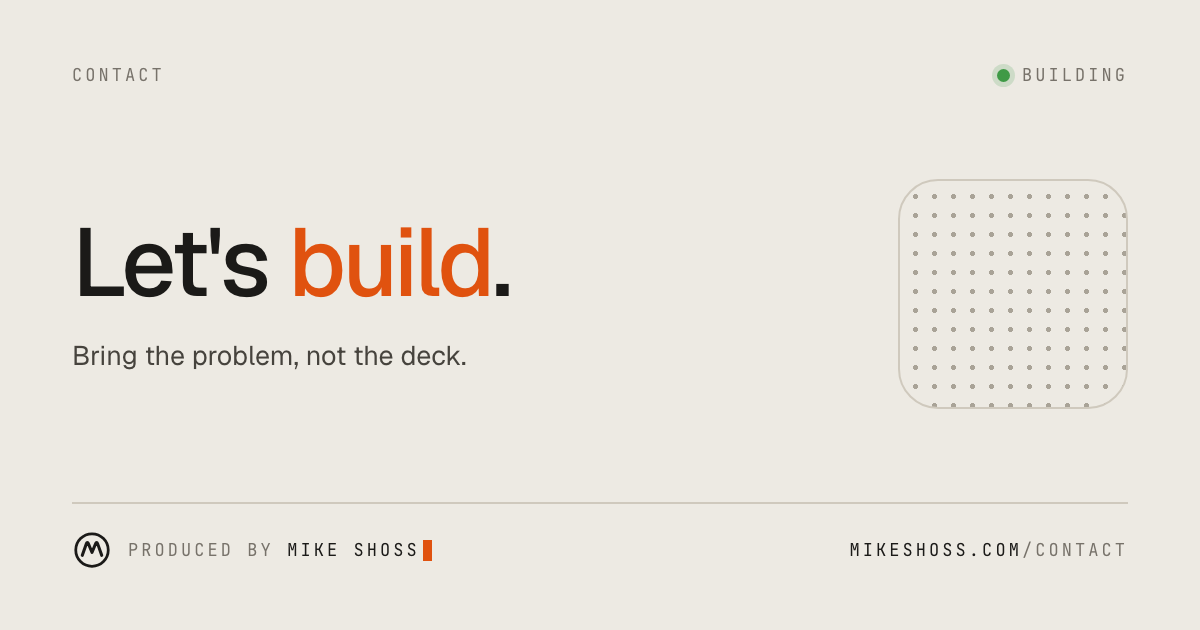
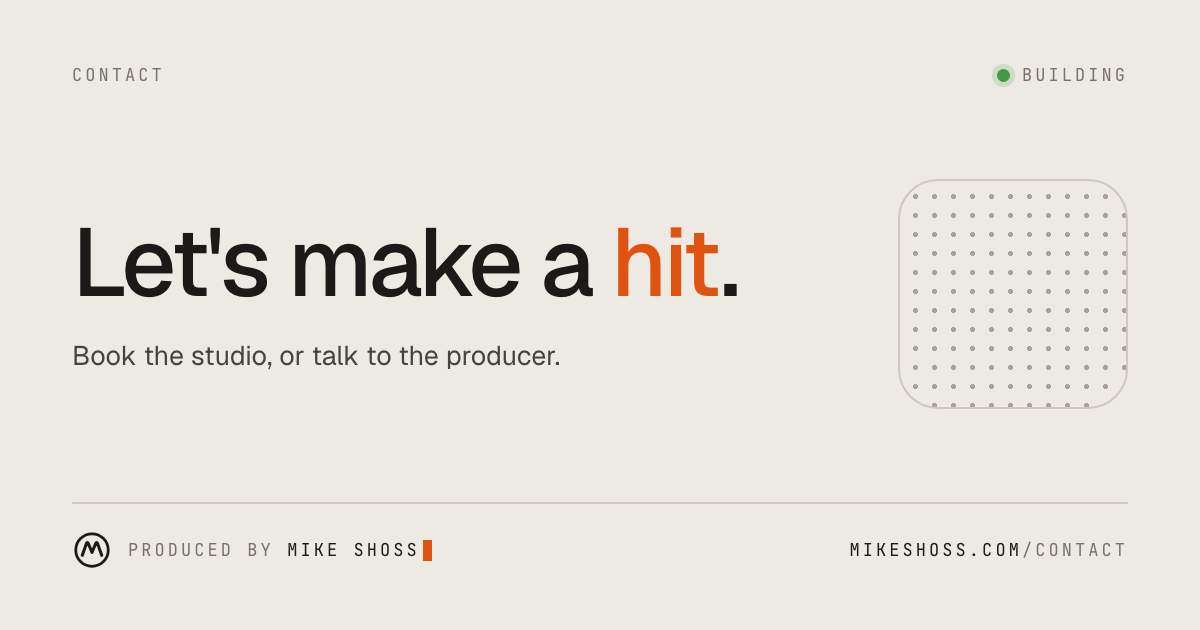
Book the studio, the bikes in 8-bit, graded slabs; calls approved
- Book the studio: home hero and contact panel buttons go to Epilogue
  (campaign-tagged). Contact: 'Let's make a hit.' with two doors, Book
  the studio (the work) and Talk to the producer (boards, advising,
  investing, founders, stages), then the channels. Card, brand and
  command menu follow.
- Calls: approved by Mike, Draft labels gone.
- Bikes: CCM Tour du Monde (on the wall), Miele Uno LS (riding, v2),
  Nakamura Champion (building, v1) from Mike's build notes, each drawn as
  an 8-bit frame-and-fork sprite generated at build time
  (BikeSprite.astro) in the frame's real colours.
- Slabs: five PSA slabs, grades only (no certs, no prices); Charizard and
  Haunter marked as part of the Base Set and Fossil runs.

Claude-Session: https://claude.ai/code/session_01PXLdws1ZUYVP4QoPYJzYg7

Changed region(s): [[0.2467, 0.3619, 0.6167, 0.4825], [0.0617, 0.5429, 0.4625, 0.6032]]

diff --git a/src/data/content.ts b/src/data/content.ts
@@ -372,8 +372,8 @@ export const credits: Credit[] = [
  * Calls: dated, blunt views on where business and AI are going, kept on the
  * record so they can be marked right or wrong later.
  *
- * DRAFTS. These were written by Claude from the thesis above as placeholders
- * for layout only. Mike writes the real ones; delete `draft` when he does.
+ * Approved by Mike 2026-11-05. Set `draft` on any new call until he signs it
+ * off; drafts show a "Draft" label on the home page.
  */
 export interface Call {
   call: string;
@@ -382,24 +382,28 @@ export interface Call {
   draft?: boolean;
 }
 
+/**
+ * The studio: where the work is booked. This site is the producer; Epilogue
+ * is the studio. "Book the studio" buttons point here, tagged with
+ * withCampaign at each placement.
+ */
+export const studio = { name: "Epilogue", url: "https://epiloguelabs.com" };
+
 export const calls: Call[] = [
   {
     call: "Governance stops being a document and becomes part of the build. The AI teams that win regulated buyers will ship their audit trail with every release.",
     made: "2026-11",
     status: "Open",
-    draft: true,
   },
   {
     call: "The scarce skill isn't prompting or picking a model. It's knowing which expensive, document-heavy workflow to point the machine at.",
     made: "2026-11",
     status: "Open",
-    draft: true,
   },
   {
     call: "In high-stakes work, the AI products that win will advertise what they don't know. Visible failure becomes a feature buyers ask for.",
     made: "2026-11",
     status: "Open",
-    draft: true,
   },
 ];
 
@@ -1445,7 +1449,7 @@ export const interests: Interest[] = [
   {
     slug: "bicycles",
     name: "Vintage Canadian steel bicycles",
-    summary: "Canadian vintage steel. Frames from the makers who built bikes here, restored and ridden.",
+    summary: "Canadian vintage steel, and a few good frames from elsewhere: restored, rebuilt and ridden. One is too rare to ride and hangs on my office wall.",
     status: "Restoring",
     keywords: ["Restoration", "Framebuilding", "Cycling"],
   },
@@ -1554,12 +1558,70 @@ export const cardSets: CardSet[] = [
   { name: "Best of Game", year: "2002", total: 9, owned: 0, note: "Next up" },
 ];
 
-export interface Slab {
-  card: string;
-  set: string;
-  grader: string;
-  grade: string;
+/**
+ * The bikes, from Mike's build notes (2026). Each is drawn on its page as an
+ * 8-bit sprite of the frame and fork only (src/components/BikeSprite.astro),
+ * in the frame's real colours. `colour` null = not confirmed yet: the sprite
+ * is drawn in bare-metal grey and says so.
+ */
+export interface Bike {
+  slug: string;
+  year: string;
+  make: string;
+  model: string;
+  line: string;
+  story: string;
+  status: string;
+  frame: string;
+  size?: string;
+  colour: string | null;
+  build: string;
+  sprite: { frame: string; shine: string; lugs: string; fork?: string; fixie?: boolean; tall?: boolean };
 }
+
+export const bikes: Bike[] = [
+  {
+    slug: "ccm-tour-du-monde",
+    year: "1984",
+    make: "CCM",
+    model: "Tour du Monde",
+    line: "Built in France by Peugeot, badged by Canada's CCM.",
+    story: "By 1984 the original Canada Cycle & Motor Co. was leaving the bicycle business; this one was built by Peugeot on Reynolds 501 and came to me all original. Too rare to modify, so it was taken apart, cleaned and preserved. The frame and fork hang on my office wall.",
+    status: "On the wall",
+    frame: "Reynolds 501 steel",
+    size: '22"',
+    colour: "Burgundy with gold striping",
+    build: "Preserved: SunTour 12-speed, Weinmann and Dia-Compe, 27-inch wheels, all boxed",
+    sprite: { frame: "#9b1b2a", shine: "#c94355", lugs: "#d6a73e", tall: true },
+  },
+  {
+    slug: "miele-uno-ls",
+    year: "1988",
+    make: "Miele",
+    model: "Uno LS",
+    line: "Built in Ontario: Canadian lugged steel with an Italian name.",
+    story: "Miele built well-regarded lugged-steel frames around Toronto until cheap imports closed the doors in 1996. The Uno LS is light, lively Tange chromoly. Version 2 turns it into a fast fitness bike: bullhorns, Tiagra levers, white cork tape and a ride kit that means it's always ready to go.",
+    status: "Riding · v2",
+    frame: "Tange chromoly",
+    size: "54 cm",
+    colour: "Teal",
+    build: "Fitness mode: bullhorn bars, Shimano 2×6, Sugino MP crank, 700×35C",
+    sprite: { frame: "#139aa6", shine: "#58cdd4", lugs: "#d9d5cc" },
+  },
+  {
+    slug: "nakamura-champion",
+    year: "1987",
+    make: "Nakamura",
+    model: "Champion",
+    line: "A budget-rack rescue on a quality Tange 900 frame.",
+    story: "Not every good frame carries a famous name. This one came home cheap and was hiding double-butted Tange 900 chromoly, mid-'80s Japanese steel that rides far better than its price. Version 1 strips it back to a clean single-speed fixie on a flip-flop hub.",
+    status: "Building · v1",
+    frame: "Double-butted Tange 900 chromoly",
+    colour: null,
+    build: "Fixie: single-speed, flip-flop rear hub",
+    sprite: { frame: "#8f897e", shine: "#bdb7aa", lugs: "#d9d5cc", fixie: true },
+  },
+];
 
 /** Magic: The Gathering. Commander decks, with the bracket each one plays at. */
 export interface CommanderDeck {
@@ -1690,7 +1752,29 @@ export const porygon = {
   ],
 };
 
-/** Graded cards. Empty until the list comes in; the section hides until then. */
-export const slabs: Slab[] = [];
+export interface Slab {
+  card: string;
+  set: string;
+  number?: string;
+  year?: string;
+  grader: string;
+  grade: string;
+  /** The grader's word for the grade, as printed on the label. */
+  label: string;
+  /** Set when the slab is a card in one of the set runs above, not a stand-alone. */
+  partOf?: string;
+}
+
+/**
+ * Graded cards. Grades only: no cert numbers, prices or values (the same rule
+ * as the sets). Two are cards from the completed sets, kept in slabs.
+ */
+export const slabs: Slab[] = [
+  { card: "Eevee & Snorlax GX (Full Art)", set: "Team Up", number: "171", year: "2019", grader: "PSA", grade: "9", label: "Mint" },
+  { card: "Bulbasaur (Illustration Rare)", set: "Stellar Crown", number: "143/142", year: "2024", grader: "PSA", grade: "9", label: "Mint" },
+  { card: "Rocket's Mewtwo (Holo, Japanese)", set: "Gym Challenge (Japanese)", number: "150", grader: "PSA", grade: "7", label: "Near Mint" },
+  { card: "Charizard (Holo, Shadowless)", set: "Base Set", number: "4", year: "1999", grader: "PSA", grade: "5", label: "Excellent", partOf: "Base Set" },
+  { card: "Haunter (Holo)", set: "Fossil", number: "6", year: "1999", grader: "PSA", grade: "6", label: "Excellent–Mint", partOf: "Fossil" },
+];
 
 export const organizations = withPeriod(organizationsData);

diff --git a/src/pages/palette.json.ts b/src/pages/palette.json.ts
@@ -71,7 +71,7 @@ const actions: Item[] = [
   { t: "Copy my email", h: site.email, g: "Actions", a: "copy", v: site.email, k: "mail contact" },
   { t: "Open LinkedIn", h: "↗", g: "Actions", u: site.linkedin, x: true, k: "message dm" },
   { t: "Open GitHub", h: "↗", g: "Actions", u: site.github, x: true, k: "code" },
-  { t: "Epilogue, the studio", h: "↗", g: "Actions", u: "https://epiloguelabs.com/?utm_source=mikeshoss&utm_medium=referral&utm_content=command-menu", x: true, k: "book work consulting hire" },
+  { t: "Book the studio", h: "Epilogue ↗", g: "Actions", u: "https://epiloguelabs.com/?utm_source=mikeshoss&utm_medium=referral&utm_content=command-menu", x: true, k: "epilogue book work consulting hire studio" },
   { t: "Play the producer tag", h: "Sound", g: "Actions", a: "tag", k: "sound music hit" },
   { t: "Copy an API curl", h: "curl", g: "Actions", a: "copy", v: `curl ${site.url}/api/index.json`, k: "developer json" },
   { t: "Copy the MCP server URL", h: "MCP", g: "Actions", a: "copy", v: `${site.url}/mcp`, k: "agents claude" },
